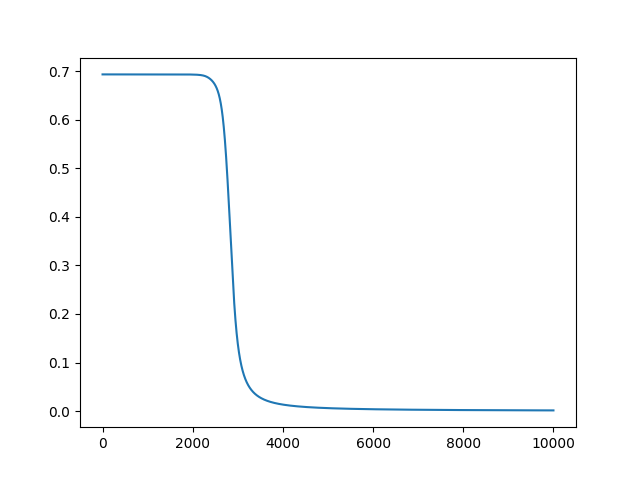
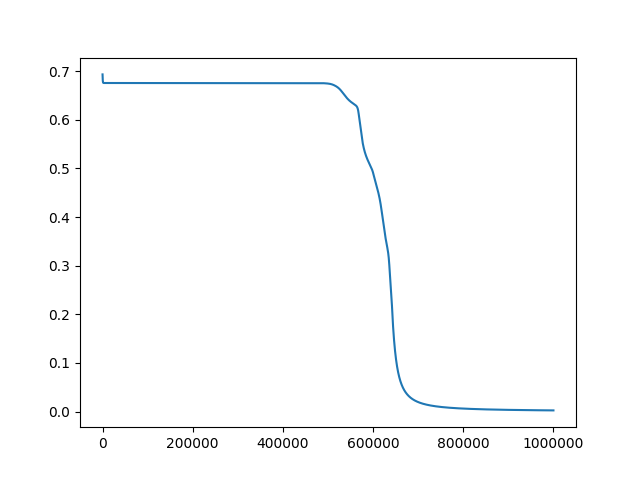
Added new set of examples, plotted the original data over the end result for better visualization

diff --git a/main.py b/main.py
@@ -4,39 +4,47 @@ import numpy as np
 import matplotlib.pyplot as plt
 
 def createData():
-    circles = np.array([[1, 5, 0], [1, 3.8, 0], [1.3, 4, 0], [2, 3.8, 0], [1.5, 1.8, 0], [0.9, 0.9, 0], [2.3, 1, 0],
-                        [2.6, 1.9, 0], [3.3, 1.9, 0], [4.2, 1.2, 0], [5.1, 2.1, 0], [5.4, 0.7, 0]])
+    # circles = np.array([[1, 5, 0], [1, 3.8, 0], [1.3, 4, 0], [2, 3.8, 0], [1.5, 1.8, 0], [0.9, 0.9, 0], [2.3, 1, 0],
+    #                     [2.6, 1.9, 0], [3.3, 1.9, 0], [4.2, 1.2, 0], [5.1, 2.1, 0], [5.4, 0.7, 0]])
+    #
+    # squares = np.array([[3, 5, 1], [3.1, 4.2, 1], [3.14, 3.1, 1], [3.9, 3.5, 1], [4.1, 4.8, 1], [4.2, 3, 1],
+    #                     [4.8, 3.1, 1], [4.8, 4.9, 1], [5, 4, 1], [5.2, 3.1, 1], [5.4, 5.1, 1], [6, 3.8, 1]])
 
-    squares = np.array([[3, 5, 1], [3.1, 4.2, 1], [3.14, 3.1, 1], [3.9, 3.5, 1], [4.1, 4.8, 1], [4.2, 3, 1],
-                        [4.8, 3.1, 1], [4.8, 4.9, 1], [5, 4, 1], [5.2, 3.1, 1], [5.4, 5.1, 1], [6, 3.8, 1]])
+    circles = np.array([[1.8, 2.2, 0], [2.6, 1.8, 0], [3.8, 1.9, 0], [4, 2.1, 0], [4.1, 3, 0], [4.1, 4.1, 0],
+                        [3.9, 4.3, 0], [1.7, 4, 0], [2, 4.3, 0], [2.1, 2.1, 0], [1.8, 3, 0], [1.9, 3.2, 0],
+                        [3, 5, 0], [2.5, 4.5, 0], [2.6, 4.6, 0], [3.5, 4.6, 0], [3, 1.9, 0], [3.3, 1.8, 0], [3.5, 1.75, 0]])
+    squares = np.array([[2.2, 2.9, 1], [2.22, 3.9, 1], [3.3, 2.2, 1], [3.8, 2.65, 1], [3.8, 3.6, 1], [3.5, 4, 1],
+                        [3, 4.2, 1], [2.9, 2.4, 1], [2.2, 3.5, 1], [2.6, 2.6, 1], [3.6, 2.5, 1], [3.9, 3.1, 1],
+                        [2.6, 4, 1]])
 
     plt.scatter(circles[:, 0], circles[:, 1], marker='o', color='blue')
     plt.scatter(squares[:, 0], squares[:, 1], marker='s', color='green')
     plt.savefig('simpleData')
     plt.show()
 
-    data = np.concatenate((circles, squares), axis=0)
-    return data
+    return circles, squares
 
 # for the test set
 def createRandomData(num):
-    randData = np.random.rand(2, num) * 5.5
+    randData = np.random.rand(2, num) * 6
     return randData
 
 def trainNeuralNetworkSimpleData(plotCost=False):
     # classifies if examples are squares or not
 
-    data = createData()
-    X = np.delete(data, 2, axis=1)
+    origCircles, origSquares = createData()
+    data = np.concatenate((origCircles, origSquares), axis=0)
+    X = np.delete(data, -1, axis=1)
     y = data[:, -1]
 
+
     neuralNetwork = NeuralNetwork(inputSize=2, layers=[
-        Dense(size=3, activation='tanh'),
-        Dense(size=3, activation='tanh'),
+        Dense(size=5, activation='tanh'),
+        Dense(size=5, activation='tanh'),
         Dense(size=1, activation='sigmoid')
     ])
 
-    costHistory = neuralNetwork.train(X.T, y, iterations=10000, learningRate=0.05, printCost=True, printCostRounds=1000)
+    costHistory = neuralNetwork.train(X.T, y, iterations=1000000, learningRate=0.005, printCost=True, printCostRounds=10000)
 
     if(plotCost):
         plt.plot(costHistory)
@@ -58,8 +66,11 @@ def trainNeuralNetworkSimpleData(plotCost=False):
     squares = randData[:, squares]
     circles = randData[:, circles]
 
-    plt.scatter(squares[0], squares[1], marker='s', color='green')
-    plt.scatter(circles[0], circles[1], marker='o', color='blue')
+    plt.scatter(squares[0], squares[1], marker='s', color='springgreen')
+    plt.scatter(circles[0], circles[1], marker='o', color='cornflowerblue')
+
+    plt.scatter(origCircles[:, 0], origCircles[:, 1], marker='o', color='blue')
+    plt.scatter(origSquares[:, 0], origSquares[:, 1], marker='s', color='green')
     plt.savefig('endResult')
     plt.show()
 
